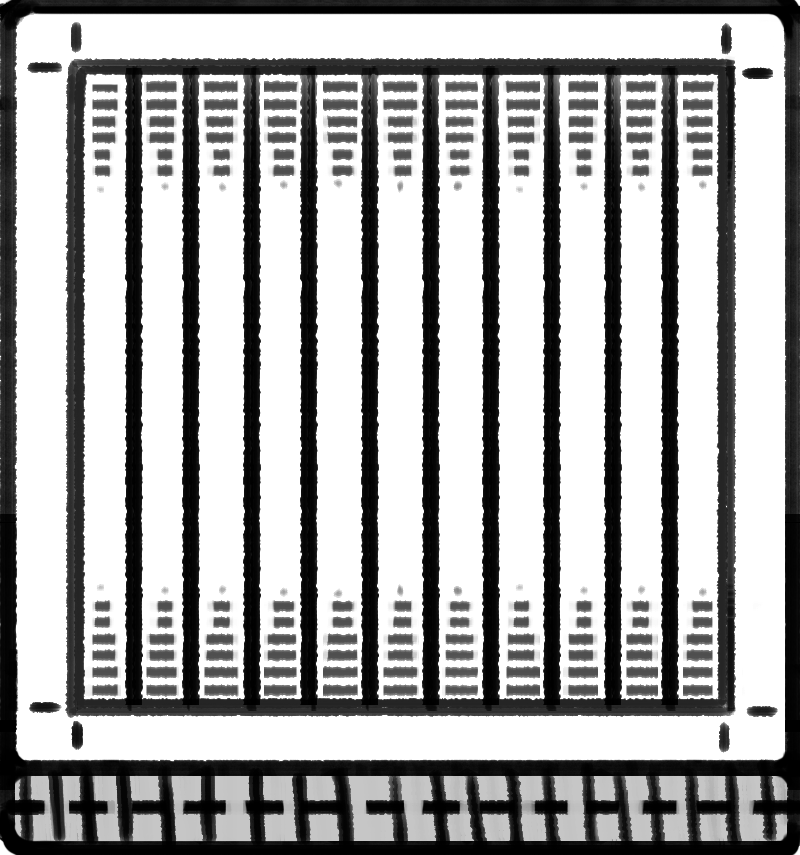
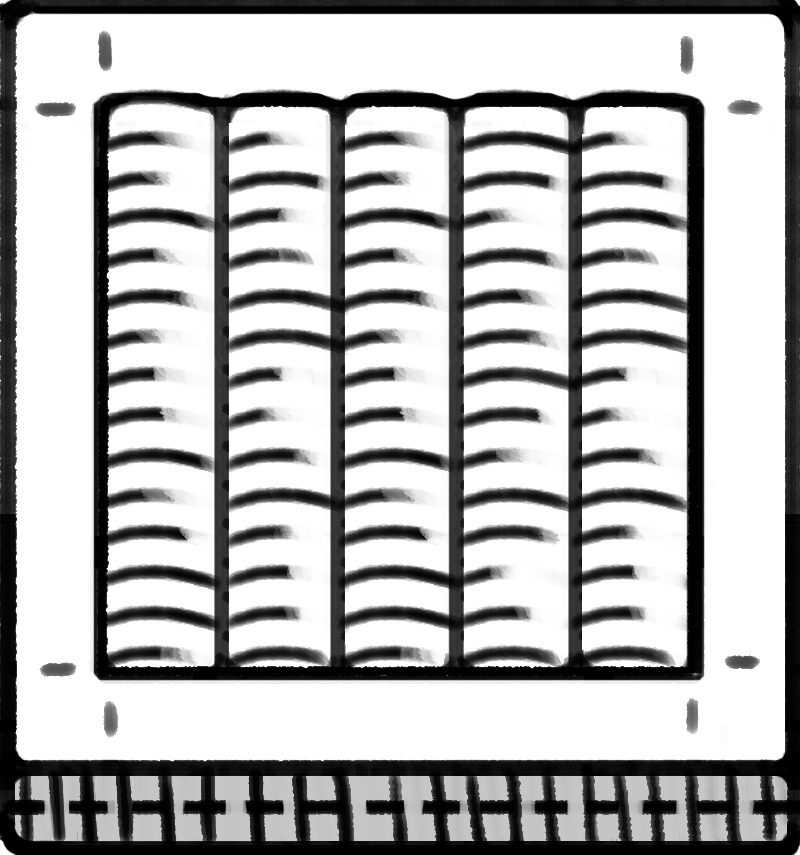
Added scores

diff --git a/links/main.css b/links/main.css
@@ -50,9 +50,9 @@ yu.designer yu.header t { display: inline-block; float:right; font-size:11px; co
 .arena tile sprite { display: block;width: 80px;height: 87px;background-size: contain;background-repeat: no-repeat; }
 .arena event { display:block; width:80px; height:80px;position: absolute; z-index:100;}
 
-.arena tile.floor sprite { background-image:url(../media/tiles/floor/wood.1.png); }
-.arena tile.floor.alt_1 sprite { background-image:url(../media/tiles/rooftop/rooftop.1.png); }
-.arena tile.floor.alt_2 sprite { background-image:url(../media/tiles/floor/wood.2.png); }
+.arena tile.floor sprite { background-image:url(../media/tiles/floor/tatami.3.png); }
+.arena tile.floor.alt_1 sprite { background-image:url(../media/tiles/floor/tatami.1.png); }
+.arena tile.floor.alt_2 sprite { background-image:url(../media/tiles/floor/tatami.2.png); }
 .arena tile { display: block; }
 
 .arena tile.floor.y_7 { z-index:20; }
@@ -137,7 +137,7 @@ yu.designer yu.header t { display: inline-block; float:right; font-size:11px; co
 .arena event.fighter shadow.idle.f_3 { background-position: -330px -330px }
 
 .arena event.blocker sprite { display: block;width: 80px;height: 87px;background-size: contain;background-repeat: no-repeat;background-position: center center;top:-30px;position: absolute  }
-.arena event.blocker.id_1 sprite { background-image:url(../media/tiles/floor/chimney.1.png);  }
+.arena event.blocker.id_1 sprite { background-image:url(../media/tiles/floor/chimney.2.png);  }
 
 .arena event.fighter.dead { display:none; }
 
@@ -151,4 +151,6 @@ yu.designer yu.header t { display: inline-block; float:right; font-size:11px; co
 .arena effect sprite.explode.f_2 { background-position: -220px -110px }
 .arena effect sprite.explode.f_3 { background-position: -330px -110px }
 .arena effect sprite.explode.f_4 { background-position: -440px -110px }
+
+.screen .summary { position: fixed; bottom:0px; padding:20px; background:white; width:calc(100vw - 520px); }
 

diff --git a/scripts/screens/battle.js b/scripts/screens/battle.js
@@ -2,7 +2,10 @@ function Battle_Screen()
 {
   Screen.call(this);
 
-  this.name = "Battle"
+  this.name = "Battle";
+
+  this.summary_el = document.createElement("yu");
+  this.summary_el.className = "summary";
   
   this.start = function()
   {
@@ -12,15 +15,20 @@ function Battle_Screen()
     markl.arena.start();
     markl.designer.update();
 
+    markl.screen.el.appendChild(this.summary_el);
+
     this.next();
   }
 
   this.next = function()
   {
+    this.update_interface();
+
     if(markl.arena.get_fighters_alive().length < 2){
       this.end();
       return;
     }
+
     if(markl.designer.is_running){
       this.move_missiles();
       var fighter = this.next_fighter();
@@ -78,6 +86,27 @@ function Battle_Screen()
     }
     if(p.hp == 0){ return; }
     return p;
+  }
+
+  this.update_interface = function()
+  {
+    var html = "";
+
+    for(id in markl.fighters){
+      var fighter = markl.fighters[id];
+      html += fighter.name+" ";
+      if(fighter.score.hits > 0){
+        html += fighter.score.hits+"H ";
+      }
+      if(fighter.score.kills > 0){
+        html += fighter.score.kills+"K ";
+      }
+      if(fighter.is_alive() && fighter.relative_stamina() > 0){
+        html += fighter.relative_stamina()+"S ";
+      }
+      html += "<br />";
+    }
+    this.summary_el.innerHTML = html;
   }
 
   this.end = function()

diff --git a/scripts/tiles/fighters/fighter.js b/scripts/tiles/fighters/fighter.js
@@ -7,6 +7,7 @@ function Fighter(name,style = null)
   this.status = {action:"idle",vector:"down"};
   this.type = "fighter";
   this.character = null;
+  this.score = {hits:0,kills:0};
 
   this.style = style;
   this.style.host = this;
@@ -138,5 +139,21 @@ function Fighter(name,style = null)
   {
     console.log("End turn");
     return;
+  }
+
+  this.relative_stamina = function()
+  {
+    var min_stamina = 9999999;
+    var max_stamina = 0;
+    for(id in markl.fighters){
+      if(!markl.fighters[id].is_alive()){ continue; }
+      if(markl.fighters[id].stamina < min_stamina){
+        min_stamina = markl.fighters[id].stamina;
+      }
+      if(markl.fighters[id].stamina > max_stamina){
+        max_stamina = markl.fighters[id].stamina;
+      }
+    }
+    return this.stamina - min_stamina;
   }
 }

diff --git a/scripts/actions/attack.js b/scripts/actions/attack.js
@@ -33,6 +33,10 @@ function ATTACK(host,attr,target = null)
       console.log(this.name,"at "+target_position+"("+vector.name+")");
       event_at_position.damage(1);
       event_at_position.knockback(vector);
+      this.host.score.hits += 1;
+      if(event_at_position.hp < 1){
+        this.host.score.kills += 1;        
+      }
     }
     else{
       console.log(this.name,"at "+target_position+", but no one is here.");

diff --git a/scripts/static.js b/scripts/static.js
@@ -5,7 +5,7 @@ arenas.training = new Arena("training",new Size(5,5),[
   new Spawn(new Pos(4,4)),
   new Spawn(new Pos(4,0)),
   new Spawn(new Pos(0,4)),
-  new Hole(new Pos(2,2),1)
+  new Block(new Pos(2,2),1)
 ]);
 
 arenas.duel = new Arena("duel",new Size(3,7),[
